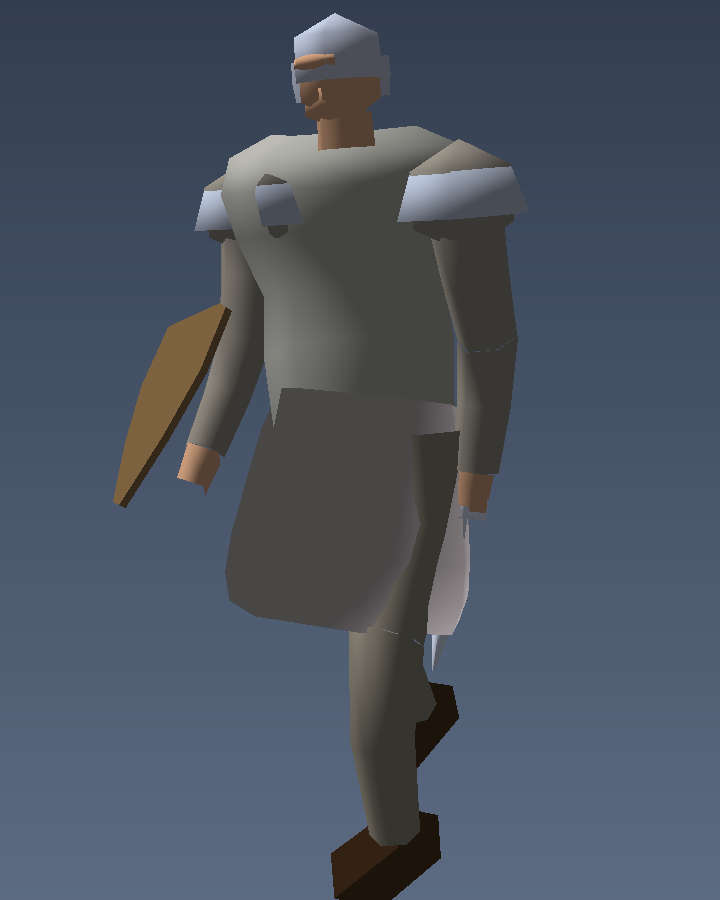
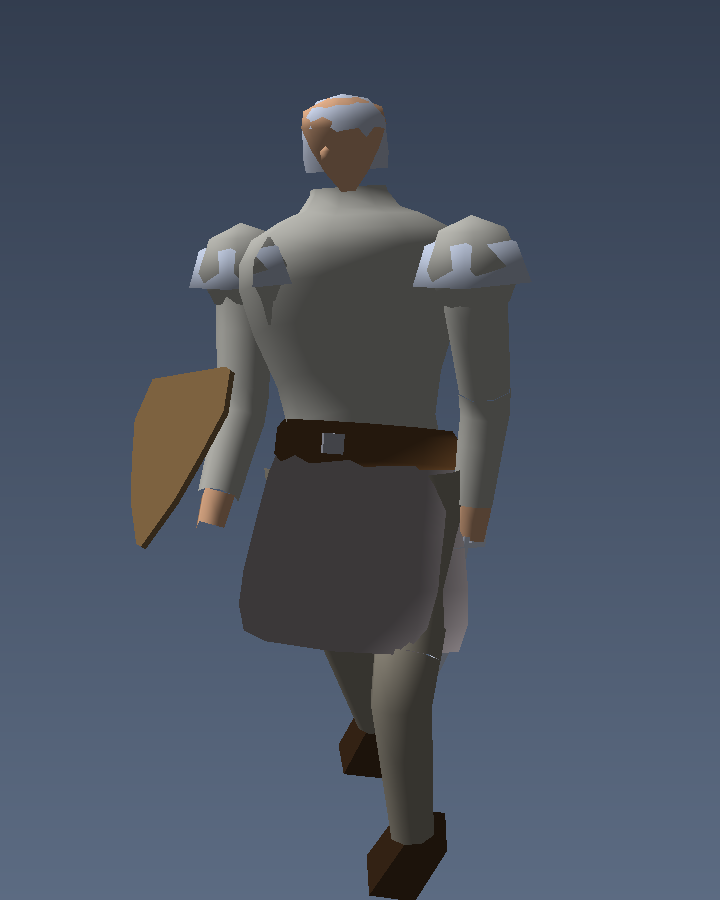
Unit rig: a torso with a waist, and a face that is not inside the tunic
THE BODY WAS A BARREL WITH A LID
The torso profile ran 0.150 -> 0.168 -> 0.175 -> 0.165 -> 0.205 -> 0.225:
three near-equal rings from hip to sternum. A lathe is a body of
revolution, so its silhouette from the front is the whole figure, and that
silhouette had no waist and no shoulder slope. Every unarmoured soldier
read as a slab-chested robot. It now goes hip, waist (narrower than the
hip, which is what a waist is), ribcage, chest, then a steep slope into
the shoulders.

THE TUNIC SWALLOWED THE JAW
Closing the collar over the neck hole worked, but the run up the neck was
carried to a fixed height of 1.66 -- above the chin at a standard build.
The lower face and the beard were inside the tunic and what showed at the
collar was the inside of the torso, which looks exactly like a dark hole
under the helmet. The neck now stops just below the chin, computed from
the head rather than written as a constant.

THE SKULL WAS 12% TOO NARROW
The lathe radius fractions are multiples of hr, which is already the
head's half-width, and the widest ring was 0.94 of a further 0.94. It
read as a cone with a forehead. The widest ring is now 1.0, the chin is
blunted (a true zero radius is a spike on a seven-segment lathe) and the
crown is rounded.

HELMETS WERE SIZED TO THE WRONG SPHERE
Every helm was 1.08-1.18 of hr in all three axes, centred on the head, but
the skull is a lathe 0.94 wide and 1.1 deep -- so a helm "hugging" the
[…]

Changed region(s): [[0.1528, 0.0, 0.7333, 1.0]]

diff --git a/imperial-crown-v6/src/gfx/rig/anatomy.js b/imperial-crown-v6/src/gfx/rig/anatomy.js
@@ -44,35 +44,39 @@ export function buildBody(g, prop, opts = {}) {
      A lathe, because a ribcage is wider at the chest than at the waist and
      a cylinder is the thing this overhaul exists to remove. The `squash`
      makes it deeper than it is wide: a barrel chest, not a tube. */
+  /* THE TORSO PROFILE.
+     A lathe is a body of revolution, so the only thing carrying the figure
+     is its silhouette from the front, and that silhouette has to taper.
+     The previous profile went 0.150 -> 0.168 -> 0.175 -> 0.165 -> 0.205 ->
+     0.225: three near-equal rings from the hip to the sternum, which is a
+     barrel with a lid, and every unarmoured soldier read as a slab-chested
+     robot. It also ran straight up the neck, so the collar was a wide funnel.
+
+     This is a person: hip, waist (narrower than the hip -- that is what a
+     waist is), ribcage flaring to the chest, then a steep slope in to the
+     shoulders and the base of the neck. The top closes on the neck, which is
+     what removes the hole in the collar. */
+  /* Top of the neck, just under the chin. */
+  const neckTopY = y(1.68) - 0.098 * prop.headR * 0.96;
   const torsoProfile = [
-    /* Start below the hip joint, not at it. Without a surcoat to cover the
-       join (ages I-II) a profile starting at 0.98 leaves a visible gap
-       between the tunic hem and the thighs. */
-    [x(0.150), y(0.90)],
-    [x(0.168), y(0.96)],
-    [x(0.175), y(1.12)],
-    [x(0.165), y(1.24)],
-    [x(0.205), y(1.36)],
-    [x(0.225), y(1.45)],
-    [x(0.205), y(1.52)],
-    /* Close the collar onto the neck.
-       The lathe used to stop at x(0.130), y(1.56) and leave a flat open
-       annulus of radius 0.13 around a 0.058 neck -- a visible hole you could
-       see down into from any elevated angle. It now tapers to the neck's own
-       radius and tucks below the jaw. */
-    /* CLOSE THE TORSO OVER THE NECK.
-       A lathe's top rim is an open ring, and an open ring seen from above
-       is a hole -- you could look down the collar into the chest cavity,
-       and no amount of patching with a separate neck tube or a trapezius
-       dome fixed it, because two surfaces crossing always leave a seam
-       somewhere. So the torso profile now runs right up the neck and closes
-       on it. One surface, no rim, no hole, no seam.
-       Everything above 1.52 sits inside the head, which is weighted to the
-       same bone chain, so it can never be seen. */
-    [x(0.128), y(1.520)],
-    [x(0.096), y(1.560)],
-    [x(0.076), y(1.610)],
-    [x(0.072), y(1.660)]
+    [x(0.148), y(0.90)],   /* below the hip joint, so the tunic meets the thigh */
+    [x(0.162), y(0.97)],
+    [x(0.150), y(1.06)],   /* waist: narrower than the hip */
+    [x(0.166), y(1.16)],
+    [x(0.205), y(1.28)],   /* ribcage */
+    [x(0.226), y(1.38)],   /* chest, widest */
+    [x(0.222), y(1.44)],
+    [x(0.196), y(1.49)],   /* shoulder slope */
+    /* The neck run must stop BELOW the chin.
+       Head centre is y(1.68) and the chin is 1.06 hr under it -- about
+       1.58 at a standard height. Carrying the torso up to 1.66 put it
+       through the jaw: the beard and the whole lower face were buried
+       inside the tunic, and what showed at the collar was the inside of
+       the torso. These heights are relative to the head, not fixed. */
+    [x(0.140), y(1.525)],
+    [x(0.100), neckTopY - 0.052],
+    [x(0.078), neckTopY - 0.016],
+    [x(0.074), neckTopY]
   ];
   g.material(fabric);
   if (opts.bodyCol) g.color(opts.bodyCol[0], opts.bodyCol[1], opts.bodyCol[2]);
@@ -114,15 +118,20 @@ export function buildBody(g, prop, opts = {}) {
   const crownY = headY + hr * 1.14;
   const headH = crownY - chinY;
   /* radius fractions of hr at even steps from chin to crown */
+  /* The radius fractions are of `hr`, which is already the head's half-width,
+     so the widest ring must be 1.0 -- at 0.94 times a further 0.94 the skull
+     came out 12% too narrow and read as a cone with a forehead. The chin is
+     lifted off zero for the same reason: a true zero radius is a point, and a
+     point chin on a seven-segment lathe is a spike. */
   const skull = [
-    [0.00, 0.00],   /* chin point */
-    [0.30, 0.44],   /* jaw */
-    [0.52, 0.72],   /* cheekbone */
-    [0.74, 0.94],   /* widest, at the temples */
-    [0.90, 0.86],   /* upper skull turning over */
-    [1.00, 0.00]    /* crown */
+    [0.00, 0.16],   /* chin, blunt */
+    [0.22, 0.52],   /* jaw */
+    [0.46, 0.80],   /* cheekbone */
+    [0.70, 1.00],   /* temples: widest */
+    [0.88, 0.92],   /* upper skull turning over */
+    [1.00, 0.34]    /* crown, rounded rather than pointed */
   ];
-  g.lathe(B.HEAD, skull.map(([t, r]) => [r * hr * 0.94, chinY + headH * t]), {
+  g.lathe(B.HEAD, skull.map(([t, r]) => [r * hr, chinY + headH * t]), {
     seg: g.seg(0), squash: [1.0, 1.10], blend: B.NECK
   });
   if (g.detail === DETAIL.NEAR) {
@@ -244,8 +253,20 @@ export function buildFaceDetail(g, m, opts = {}) {
   const hair = opts.hair || [0.16, 0.12, 0.09];
   g.material(5).color(hair);
   if (opts.beard) {
-    /* a beard is a flattened blob under the jaw, not a second sphere */
-    g.ellipsoid(B.HEAD, [0, headY - hr * 0.98, hr * 0.34],
-      [hr * 0.62, hr * 0.42, hr * 0.52], { sph: [5, 3] });
+    /* A beard sits ON the jaw. This was at headY - hr*0.98, which is below
+       the chin and inside the collar, so it rendered as a dark hexagonal
+       hole at the throat rather than as a beard -- and being pure hair
+       colour it read as a gap in the body. It is now centred on the jaw
+       line, slightly proud of the face, and lifted off black. */
+    /* On the jaw, projecting forward, and lifted well clear of the hair.
+       HAIR_COLORS[0] is 0.16/0.12/0.09, so multiplying it -- even by two --
+       still lands at 0.42 and a beard under a helmet reads as a hole. A
+       beard is also greyer than the hair it belongs to, which this uses. */
+    g.material(5).color(
+      Math.min(1, 0.30 + hair[0] * 0.85),
+      Math.min(1, 0.26 + hair[1] * 0.85),
+      Math.min(1, 0.22 + hair[2] * 0.85));
+    g.ellipsoid(B.HEAD, [0, headY - hr * 0.62, hr * 0.42],
+      [hr * 0.56, hr * 0.40, hr * 0.50], { sph: [5, 3] });
   }
 }

diff --git a/imperial-crown-v6/src/gfx/rig/wardrobe.js b/imperial-crown-v6/src/gfx/rig/wardrobe.js
@@ -43,8 +43,8 @@ export function buildHelm(g, m, kind, age = 3, opts = {}) {
     /* Cloth over the skull, falling to the shoulders. A full dome (no `cut`,
        which removes the crown and leaves a brim-shaped ring) plus a short
        cowl down the back of the neck. */
-    g.ellipsoid(B.HEAD, [0, headY + hr * 0.04, -hr * 0.12],
-      [hr * 1.18, hr * 1.12, hr * 1.20], { sph: [6, 4] });
+    g.ellipsoid(B.HEAD, [0, headY + hr * 0.06, -hr * 0.12],
+      [hr * 1.04, hr * 1.06, hr * 1.08], { sph: [6, 4] });
     g.lathe(B.HEAD, [
       [hr * 1.16, headY - hr * 0.30],
       [hr * 1.22, headY - hr * 0.62],
@@ -65,17 +65,25 @@ export function buildHelm(g, m, kind, age = 3, opts = {}) {
   }
 
   if (kind === 'nasal') {
-    /* Spangenhelm: a dome with a nose guard, the early knight's helm. */
-    g.ellipsoid(B.HEAD, [0, headY + hr * 0.16, 0],
-      [hr * 1.10, hr * 1.06, hr * 1.10], { cut: 0.32, sph: [6, 4] });
-    g.slab(B.HEAD, [0, headY + hr * 0.02, hr * 1.02], [hr * 0.16, hr * 0.85, hr * 0.10]);
+    /* Spangenhelm: a dome with a nose guard, the early knight's helm.
+       Sized to the SKULL (0.94 of it in X, the lathe's own figure) plus a
+       millimetre, not to 1.10 of the head sphere it is not shaped like --
+       at 1.10 all round the helm was wider than the face and swallowed it,
+       leaving a helmet with a beard under it and no visible eyes. */
+    /* `cut` is the fraction of the ellipsoid's lower half that is thrown
+       away, so 0.34 keeps two thirds of it and the rim lands well BELOW the
+       eyes -- a nasal helm is a skullcap, and its rim belongs above the
+       brow. 0.60 keeps the top 40%. */
+    g.ellipsoid(B.HEAD, [0, headY + hr * 0.30, -hr * 0.04],
+      [hr * 0.98, hr * 1.04, hr * 0.96], { cut: 0.50, sph: [6, 4] });
+    g.slab(B.HEAD, [0, headY + hr * 0.06, hr * 0.90], [hr * 0.14, hr * 0.62, hr * 0.10]);
     return;
   }
 
   if (kind === 'cone') {
     /* Tall conical helm: the steppe and the Rus. */
-    g.ellipsoid(B.HEAD, [0, headY + hr * 0.14, 0],
-      [hr * 1.08, hr * 1.00, hr * 1.08], { cut: 0.28, sph: [6, 4] });
+    g.ellipsoid(B.HEAD, [0, headY + hr * 0.26, -hr * 0.04],
+      [hr * 0.96, hr * 1.00, hr * 0.94], { cut: 0.55, sph: [6, 4] });
     g.lathe(B.HEAD, [
       [hr * 1.02, headY + hr * 0.70],
       [hr * 0.52, headY + hr * 1.36],
@@ -85,8 +93,8 @@ export function buildHelm(g, m, kind, age = 3, opts = {}) {
   }
 
   if (kind === 'turban') {
-    g.ellipsoid(B.HEAD, [0, headY + hr * 0.18, 0],
-      [hr * 1.18, hr * 0.86, hr * 1.18], { cut: 0.42, sph: [6, 4] });
+    g.ellipsoid(B.HEAD, [0, headY + hr * 0.22, -hr * 0.04],
+      [hr * 1.02, hr * 0.80, hr * 1.00], { cut: 0.44, sph: [6, 4] });
     /* the brow band sits ABOVE the eyes and stops at the temples */
     g.lathe(B.HEAD, [
       [hr * 1.16, headY + hr * 0.14],
@@ -109,10 +117,10 @@ export function buildHelm(g, m, kind, age = 3, opts = {}) {
      is: a neck flare, a cheek line, a temple, a crown. The face opening is
      cut out of the front by sweeping an arc that stops at the temples. */
   g.lathe(B.HEAD, [
-    [hr * 1.10, headY - hr * 0.52],
-    [hr * 1.15, headY - hr * 0.14],
-    [hr * 1.12, headY + hr * 0.16],
-    [hr * 1.10, headY + hr * 0.66],
+    [hr * 0.99, headY - hr * 0.50],
+    [hr * 1.04, headY - hr * 0.12],
+    [hr * 1.02, headY + hr * 0.18],
+    [hr * 1.00, headY + hr * 0.68],
     [hr * 0.62, headY + hr * 1.16],
     [0.0, headY + hr * 1.30]
   ], { seg: g.seg(1), arc: FLARE_ARC, arcStart: FLARE_START });
